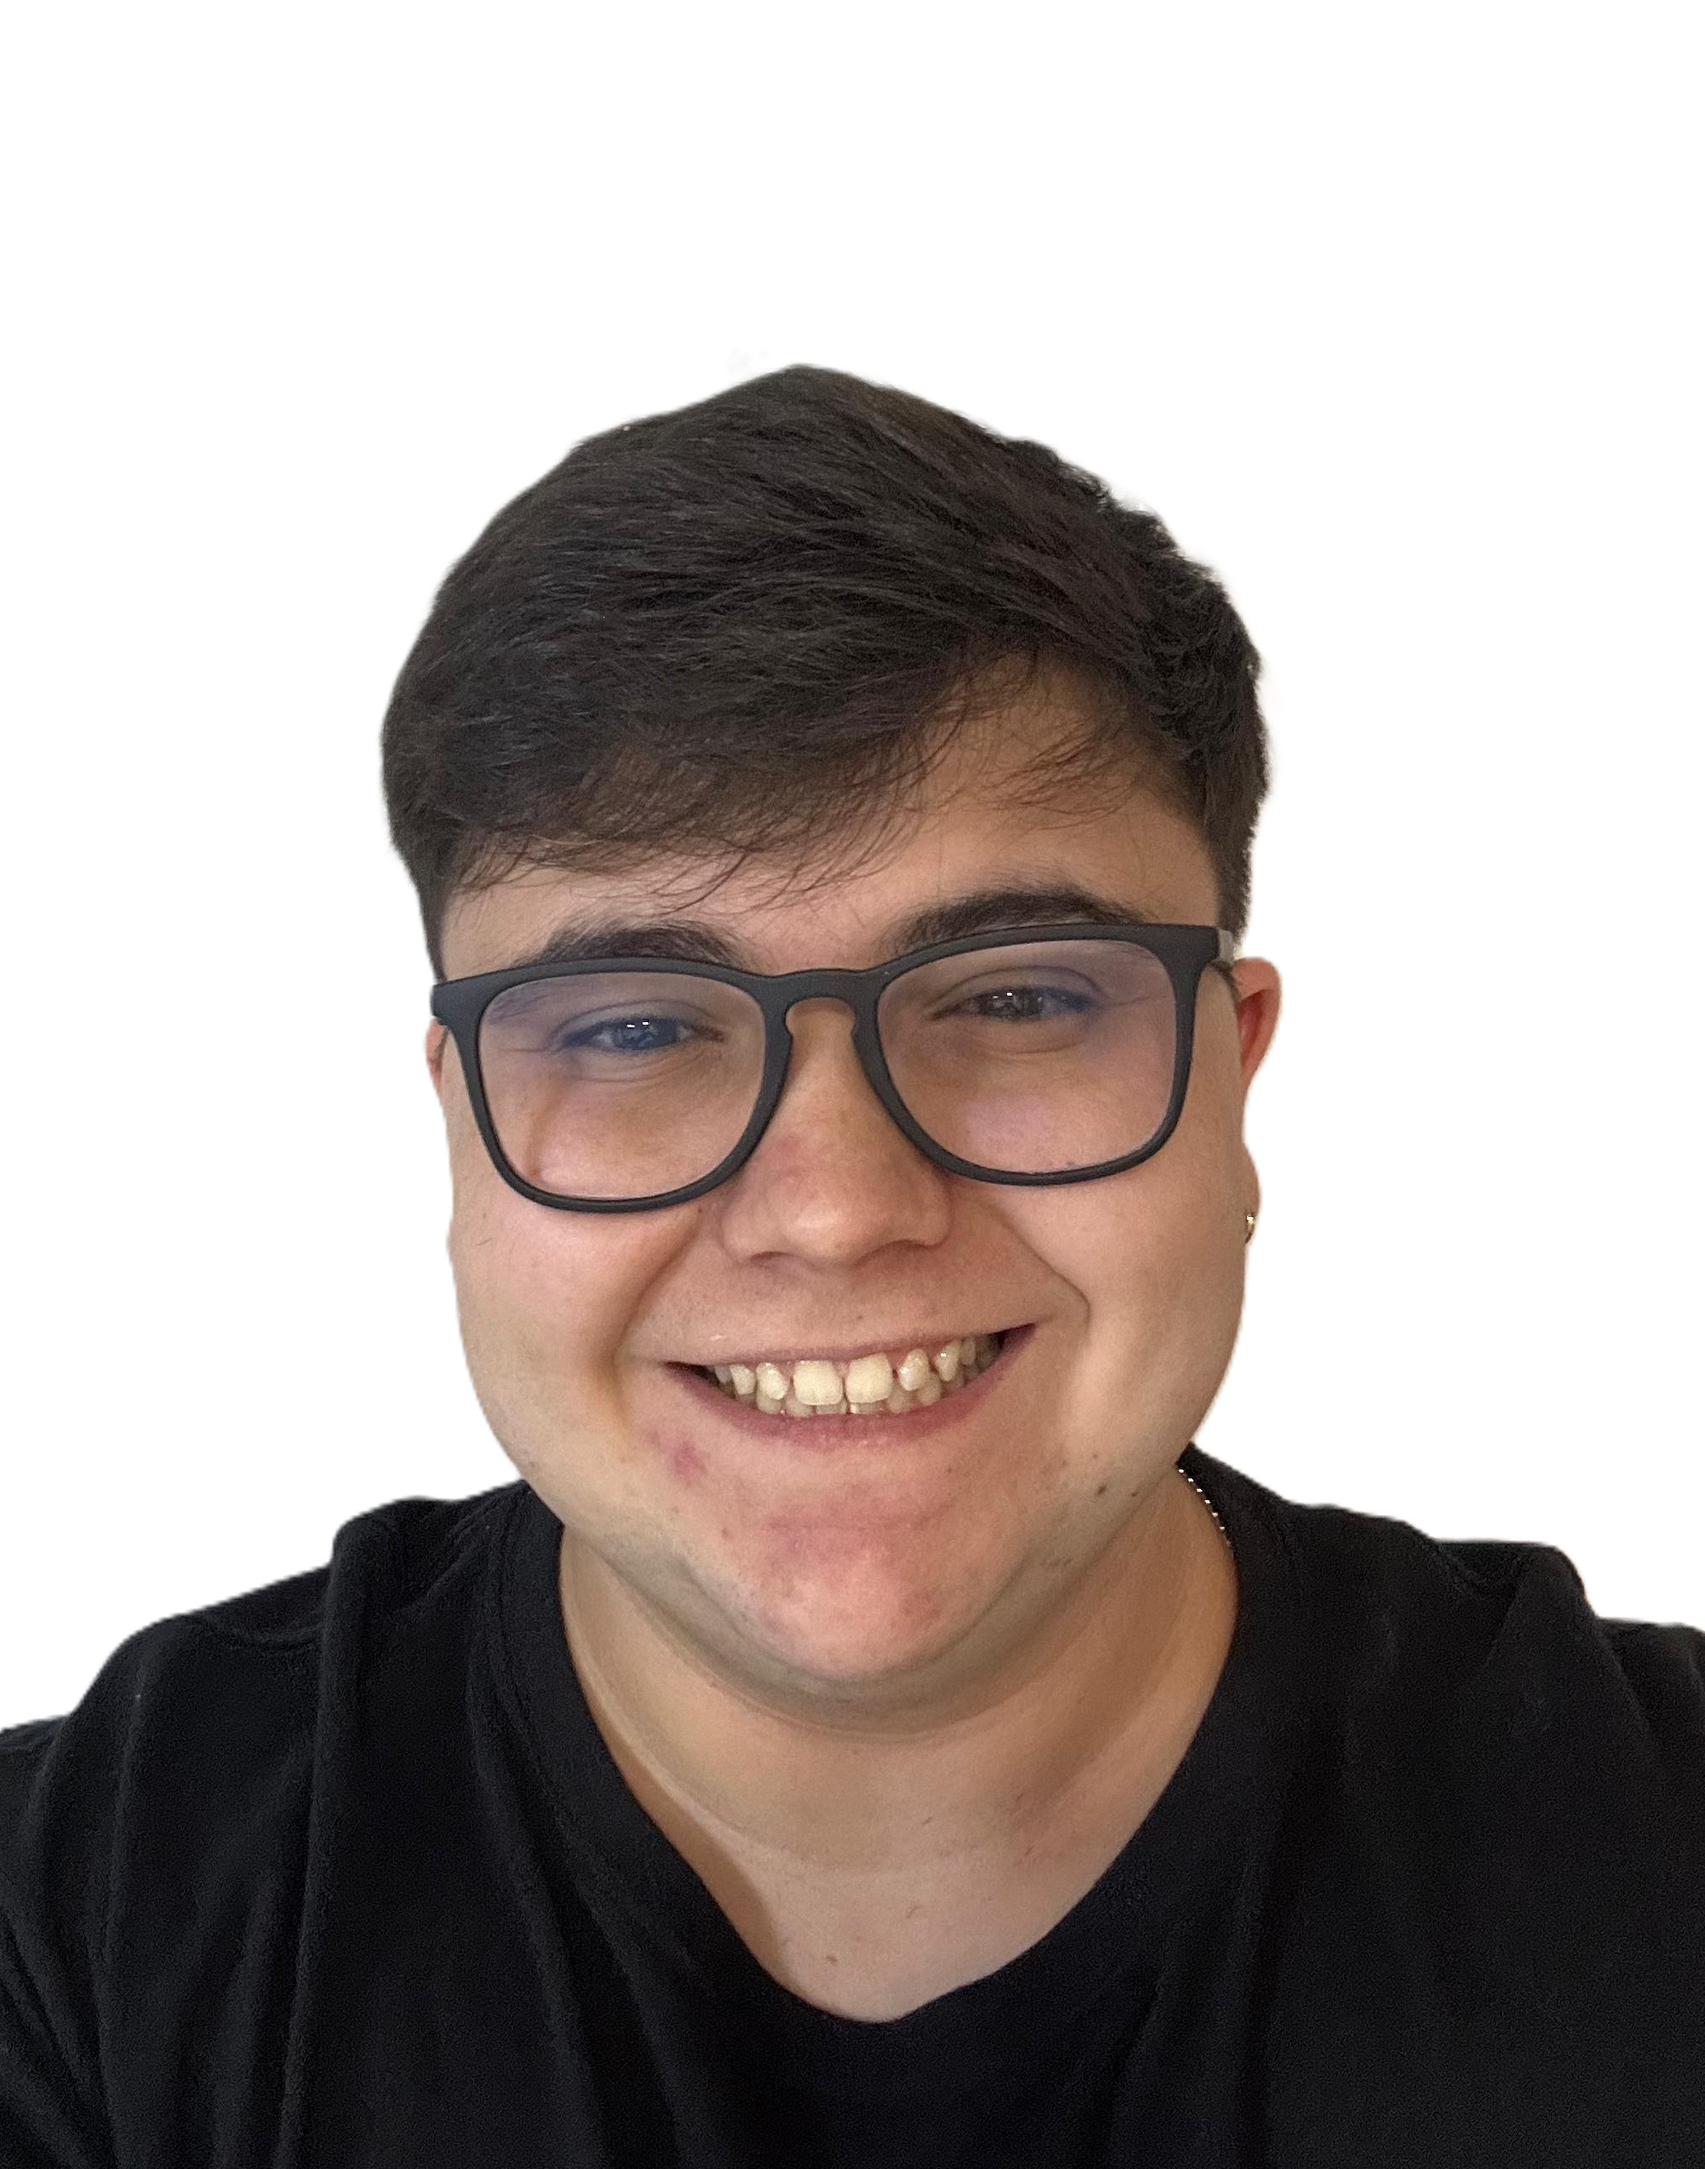
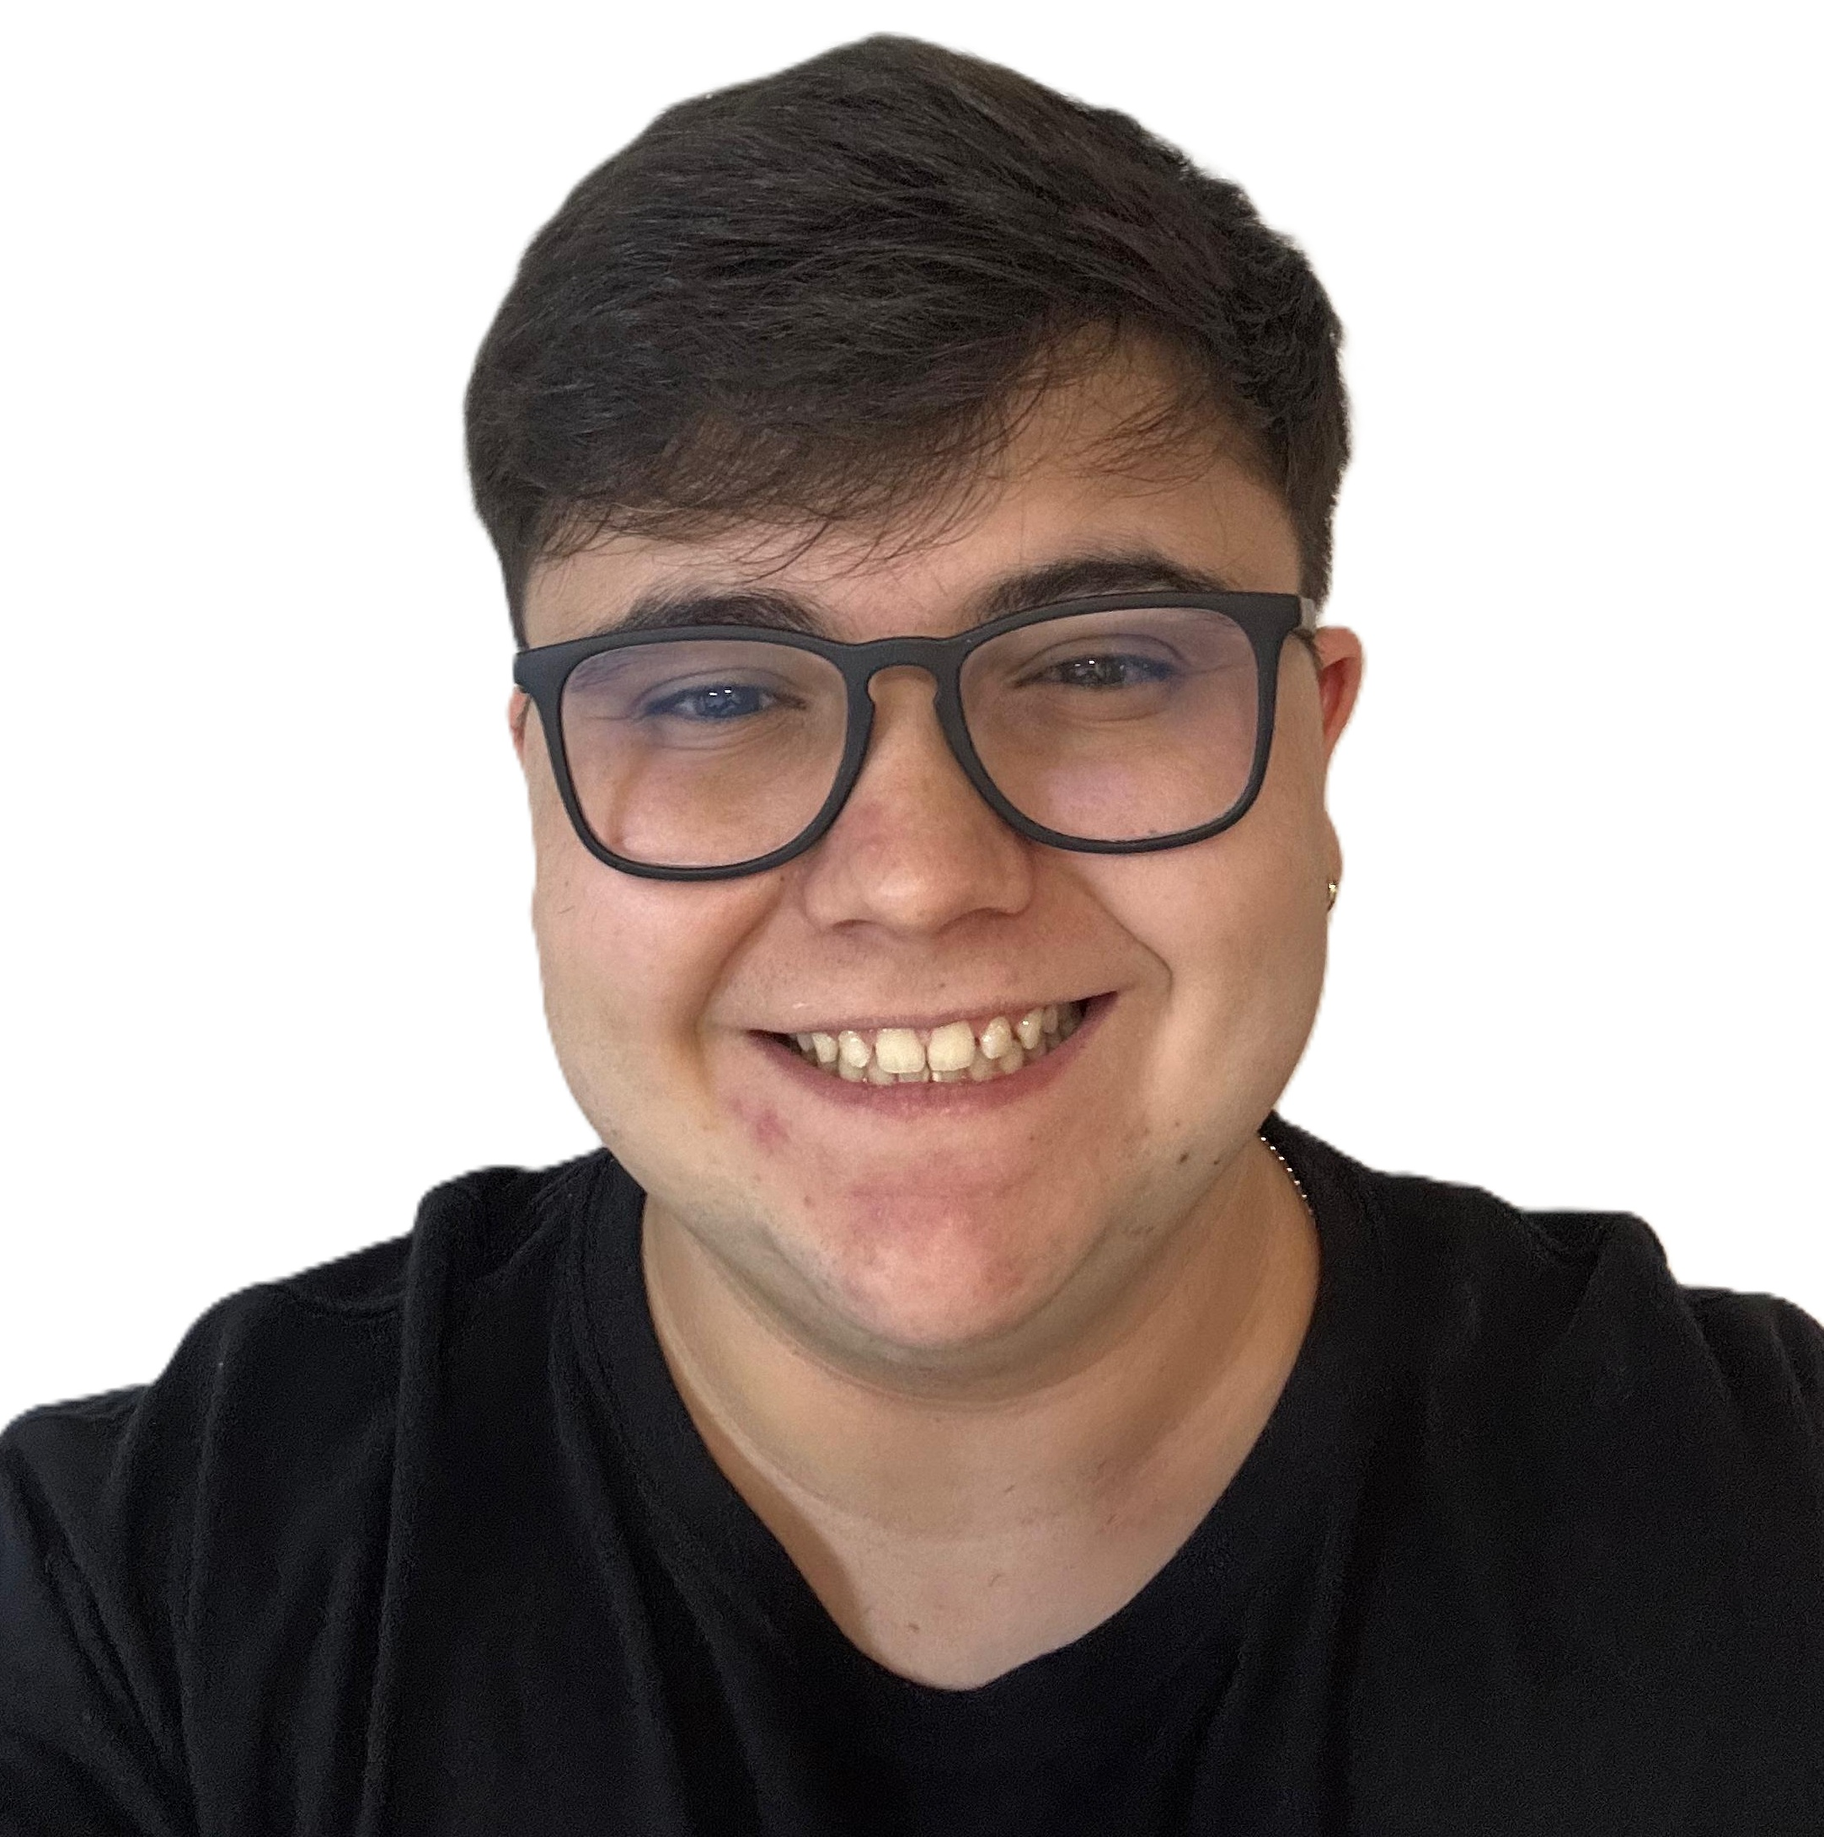
Updated!

diff --git a/style.css b/style.css
@@ -287,7 +287,8 @@ span {
 }
 
 .about-img img {
-    width: 90%;
+    width: 100%;
+    height: 100%;
     border-radius: 50%;
     border: .2rem solid var(--main-color);
 }
